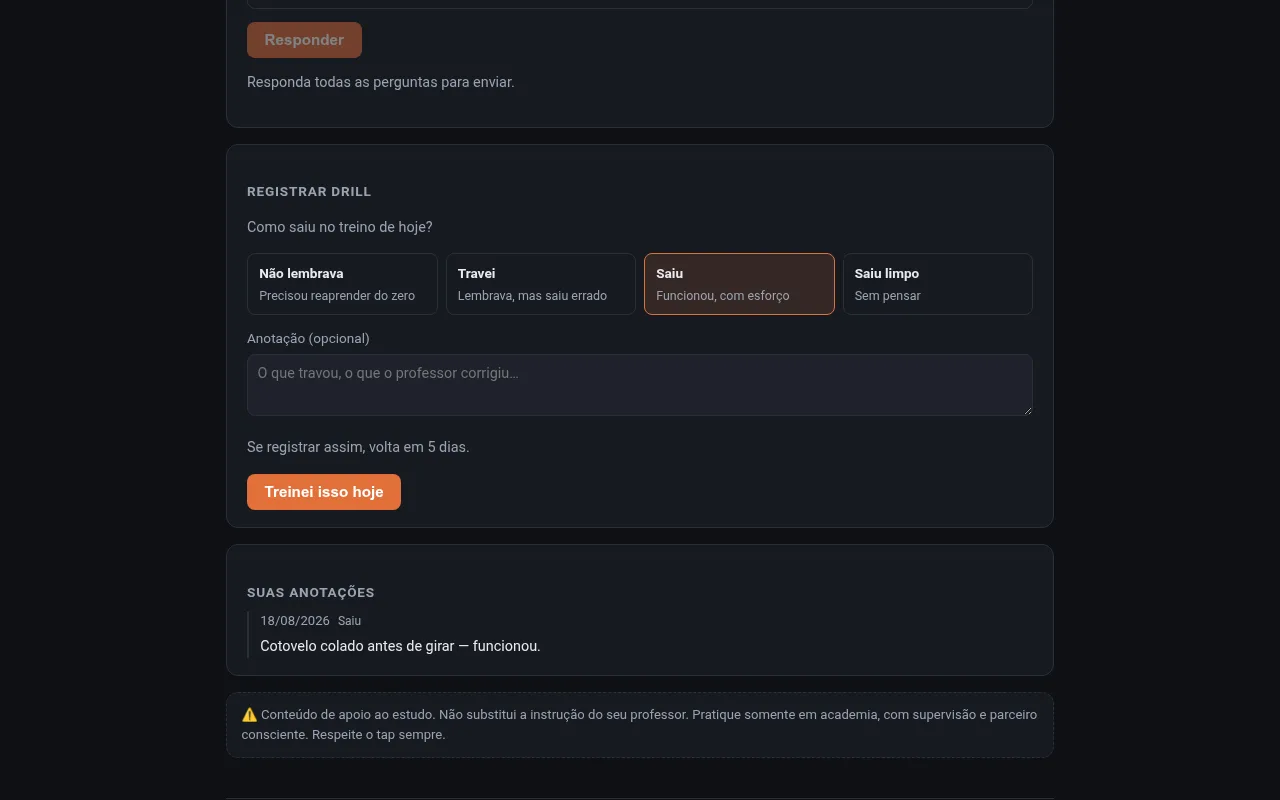
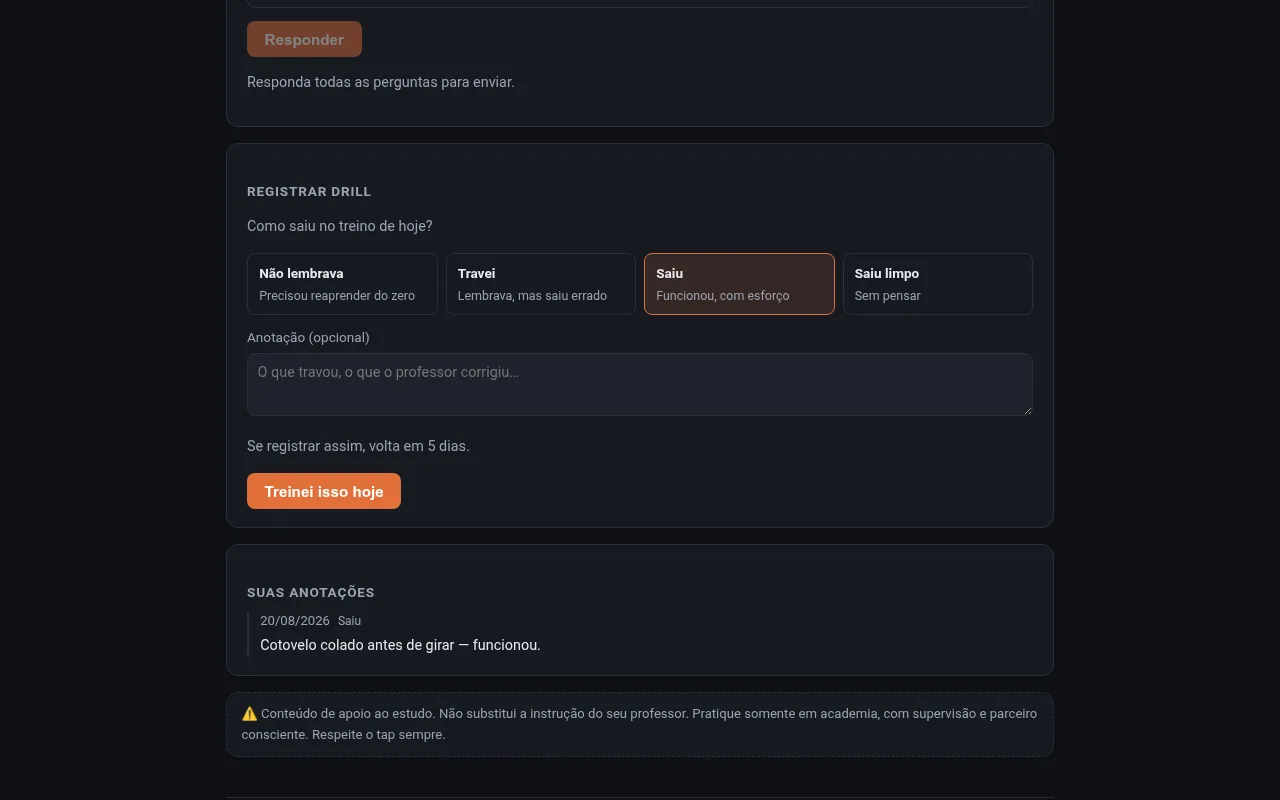
chore: recaptura as telas restantes da landing
Fecha a recaptura começada no commit anterior: rodei arvore, drill e
hoje com o mesmo procedimento agora documentado no docs/10 — que foi
usado pela primeira vez de fora da cabeça de quem o escreveu, e
funcionou de primeira.

Só drill-* e hoje-* mudaram de fato:

- hoje-desktop e hoje-mobile ganharam o cabeçalho da #24, com o nome
  da conta e o botão Sair, que os prints não mostravam desde então.
- drill-* mudou pela data do histórico de anotações, que acompanha o
  dia da semeadura.
- arvore-desktop e arvore-mobile saíram byte a byte idênticos: o
  enquadramento é ancorado no primeiro nó travado, abaixo do cabeçalho,
  e a árvore não exibe conceito. Bom sinal de que a captura é
  determinística.

og.jpg fica como está — é o hero da landing pública, sem cabeçalho de
app, e não mudou nesta PR.

Refs #58

Claude-Session: https://claude.ai/code/session_01XZ4btbbdtcBMPMC5Efbune

diff --git a/docs/10-prints-da-landing.md b/docs/10-prints-da-landing.md
@@ -29,10 +29,13 @@ Refazer é barato (um comando), então na dúvida refaça.
 > **não** vale criar um modo que desliga o portão para capturar tela — seria porta dos fundos
 > permanente para economizar oito imagens. Sem a variável o script roda como antes e falha em `401`.
 >
-> **Defasagem que sobra:** a #58 recapturou só `no-desktop` e `no-mobile`, porque foi o conceito do
-> nó que mudou. Os outros seis arquivos seguem com o cabeçalho anterior à #24 — sem o nome da conta
-> e o botão *Sair*. Continua sendo defasagem pequena e conhecida, e agora tem conserto de um comando:
-> `node scripts/capturar-prints.mjs --semear` refaz todos.
+> **Defasagem zerada na #58:** as oito telas foram recapturadas. O cabeçalho voltou a bater com o
+> app — com o nome da conta e o botão *Sair* da #24 — nos três prints que de fato o mostram
+> (`no-desktop`, `hoje-desktop`, `hoje-mobile`); nos outros o enquadramento é ancorado abaixo dele,
+> e por isso a defasagem nunca chegou a aparecer ali. `arvore-desktop` e `arvore-mobile` saíram
+> **byte a byte idênticos** aos anteriores, o que é um bom sinal: a captura é determinística, e a
+> árvore não exibe conceito nenhum. O `og.jpg` ficou de fora de propósito — é o hero da landing
+> pública, não tem cabeçalho de app e não mudou.
 
 ## Como refazer
 
